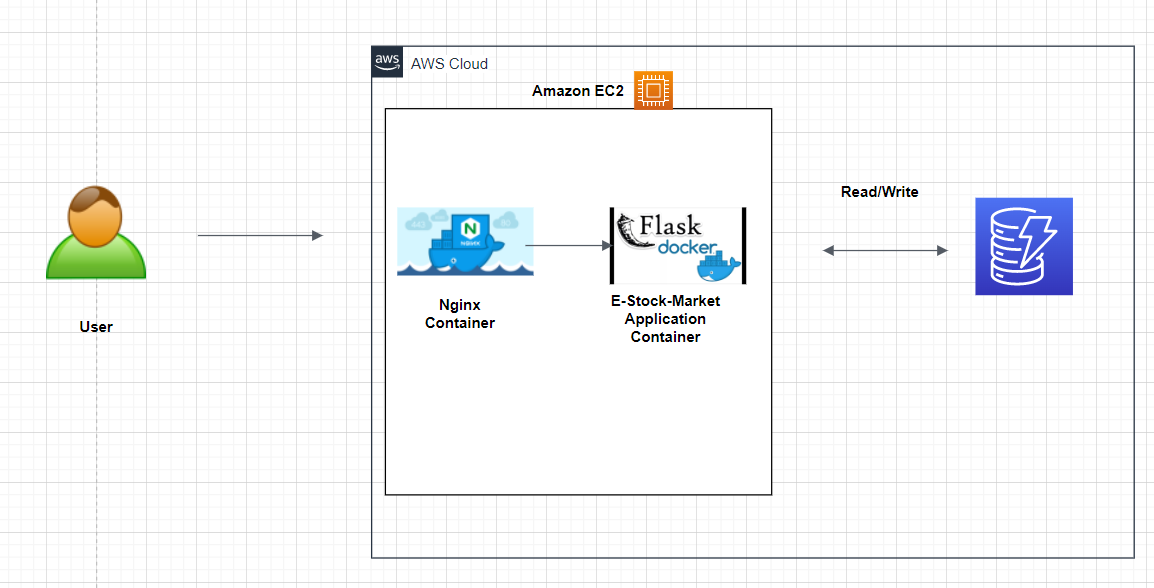
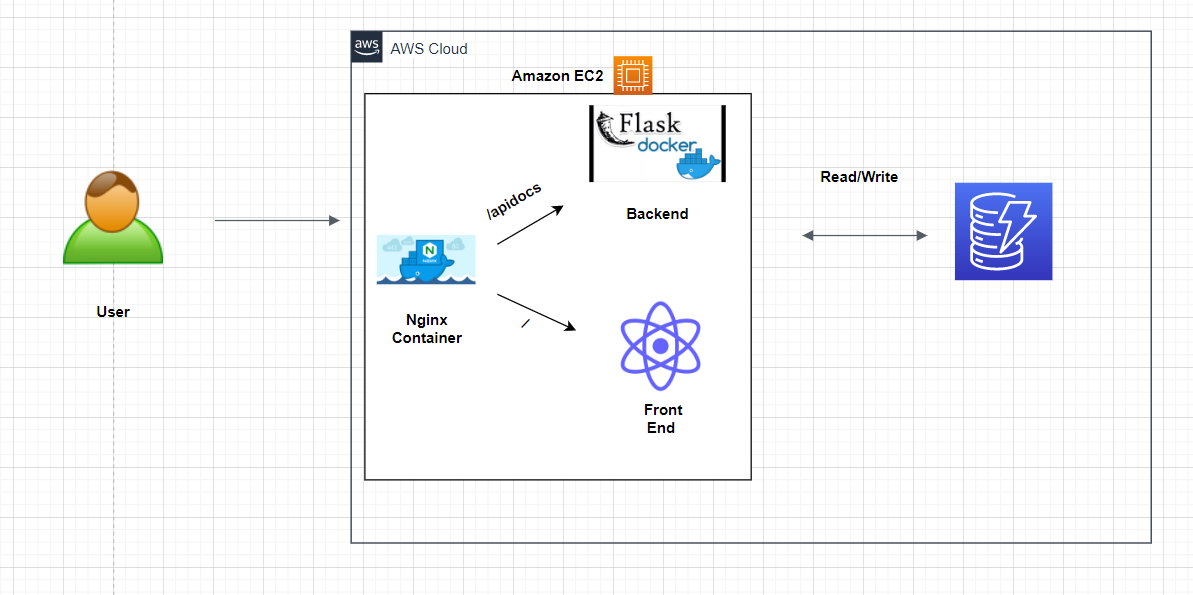
updated READme

diff --git a/README.md b/README.md
@@ -177,10 +177,10 @@ Follow the below steps - to deploy/run this project on AWS EC2
   7) Run 'cd E-Stock-Market'
   8) Run 'nano docker-compose.yml'
      and update the 'SERVER_NAME=0.0.0.0'  with 'SERVER_NAME=<EC2-Public-IP>'
-  9) Run 'cd frontend/src'
-  10) Run 'nano App.js' and update line number 16 with EC2 Public IP address - instead of 'localhost'
-  11) Run 'sudo docker-compose up'
-  12) Access the Swagger UI from browser as 'http://<EC2-Public-Ip>/apidocs'
+  9) Run 'nano frontend/src/App.js' and update line number 16 with EC2 Public IP address - instead of 'localhost'
+  10) Run 'sudo docker-compose up'
+  11) Access the Frontend React App UI from browser as 'http://<EC2-Public-Ip>/'
+  12) Access the Backend Swagger UI from browser as 'http://<EC2-Public-Ip>/apidocs'
 ```
 
 
